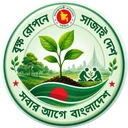
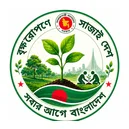
feat: update meta and app assets

diff --git a/index.html b/index.html
@@ -7,7 +7,7 @@
     <meta name="description" content="০৫ বছরে ২৫ কোটি বৃক্ষ রোপণ কর্মসূচি - অ্যাপ | স্বয়ংক্রিয় জিও-কোঅর্ডিনেট, স্বয়ংক্রিয় ফর্ম পূরণ, লোকাল স্টোরেজ, অটো সিঙ্ক — কৃষি সম্প্রসারণ অধিদপ্তর" />
 
     <!-- Favicon & PWA -->
-    <link rel="icon" type="image/x-icon" href="/favicon.ico?v=3" />
+    <link rel="icon" type="image/x-icon" href="/favicon.ico?v=4" />
     <link rel="icon" type="image/png" sizes="48x48" href="/favicon-48x48.png" />
     <link rel="icon" type="image/png" sizes="32x32" href="/favicon-32x32.png" />
     <link rel="icon" type="image/png" sizes="16x16" href="/favicon-16x16.png" />
@@ -23,8 +23,8 @@
     <meta property="og:locale" content="bn_BD" />
     <meta property="og:title" content="বৃক্ষ রোপণে সাজাই দেশ | সবার আগে বাংলাদেশ" />
     <meta property="og:description" content="Eco-Awareness & Tree Plantation Movement for Bangladesh" />
-    <meta property="og:image" content="https://plantation-tracker.vercel.app/og-share-large.png?v=2" />
-    <meta property="og:image:secure_url" content="https://plantation-tracker.vercel.app/og-share-large.png?v=2" />
+    <meta property="og:image" content="https://plantation-tracker.vercel.app/og-share-large.png?v=3" />
+    <meta property="og:image:secure_url" content="https://plantation-tracker.vercel.app/og-share-large.png?v=3" />
     <meta property="og:image:type" content="image/png" />
     <meta property="og:image:width" content="1200" />
     <meta property="og:image:height" content="630" />
@@ -34,7 +34,7 @@
     <meta name="twitter:card" content="summary_large_image" />
     <meta name="twitter:title" content="বৃক্ষ রোপণে সাজাই দেশ | সবার আগে বাংলাদেশ" />
     <meta name="twitter:description" content="Eco-Awareness & Tree Plantation Movement for Bangladesh" />
-    <meta name="twitter:image" content="https://plantation-tracker.vercel.app/og-share-large.png" />
+    <meta name="twitter:image" content="https://plantation-tracker.vercel.app/og-share-large.png?v=3" />
     <meta name="twitter:image:width" content="1200" />
     <meta name="twitter:image:height" content="630" />
     <meta name="twitter:image:alt" content="বৃক্ষ রোপণে সাজাই দেশ, সবার আগে বাংলাদেশ" />

diff --git a/APPLY_INSTRUCTIONS.md b/APPLY_INSTRUCTIONS.md
@@ -1,0 +1,56 @@
+# How to apply this meta/OG asset update
+
+These 25 files were regenerated from your new official seal logo and are
+verified under safe sharing size limits (see report below). They mirror the
+exact paths in `plantation-tracker`.
+
+## Apply locally
+
+```bash
+cd /path/to/your/local/plantation-tracker
+# copy this extracted folder's contents over your repo, preserving paths
+cp -r /path/to/meta-assets-update/public ./
+cp -r /path/to/meta-assets-update/icons ./
+cp -r /path/to/meta-assets-update/android ./
+cp /path/to/meta-assets-update/index.html ./
+
+git add -A
+git commit -m "chore: refresh meta/OG share assets and app icons with new official seal logo"
+git push origin main
+```
+
+On Termux/Android, same idea — just adjust the source path to wherever you
+extracted this zip (e.g. `~/storage/downloads/meta-assets-update`).
+
+## What changed
+- `public/icon-512.png`, `icon-512-maskable.png`, `icon-192.png`,
+  `icon-192-maskable.png`, `apple-touch-icon.png`, favicons (16/32/48 + `.ico`)
+  — regenerated from the new circular seal logo
+- `icons/*.webp` (48–512px) — same logo, WebP set
+- `public/og-share-large.png`, `og-image.png`, `og-image-large.png` —
+  1200x630 / 1600x840, new logo + Noto Sans Bengali wordmark, pngquant-compressed
+- `android/app/src/main/assets/public/*` — mirrored favicons/apple-touch-icon
+- `index.html` — bumped cache-busting query params
+  (`favicon.ico?v=3→4`, `og-share-large.png?v=2→3`) so social crawlers
+  (Facebook/WhatsApp/Twitter/LinkedIn) drop their cached preview and refetch.
+
+## Size audit (all under safe sharing ceilings)
+| File | Dimensions | Size |
+|---|---|---|
+| icon-512.png | 512x512 | 90 KB |
+| icon-512-maskable.png | 512x512 | 83 KB |
+| icon-192.png | 192x192 | 22 KB |
+| icon-192-maskable.png | 192x192 | 14 KB |
+| apple-touch-icon.png | 180x180 | 19 KB |
+| favicon-48x48.png | 48x48 | 2.6 KB |
+| favicon-32x32.png | 32x32 | 1.6 KB |
+| favicon-16x16.png | 16x16 | 0.5 KB |
+| og-share-large.png | 1200x630 | 133 KB |
+| og-image.png | 1200x630 | 133 KB |
+| og-image-large.png | 1600x840 | 218 KB |
+
+After pushing and redeploying on Vercel, force social crawlers to refresh:
+- Facebook: https://developers.facebook.com/tools/debug/ → paste URL → Scrape Again
+- Twitter/X: https://cards-dev.twitter.com/validator (or just re-share after a few min)
+- WhatsApp/Telegram usually pick up new `og:image` automatically once the
+  `?v=` query param changes, which this update already does.
